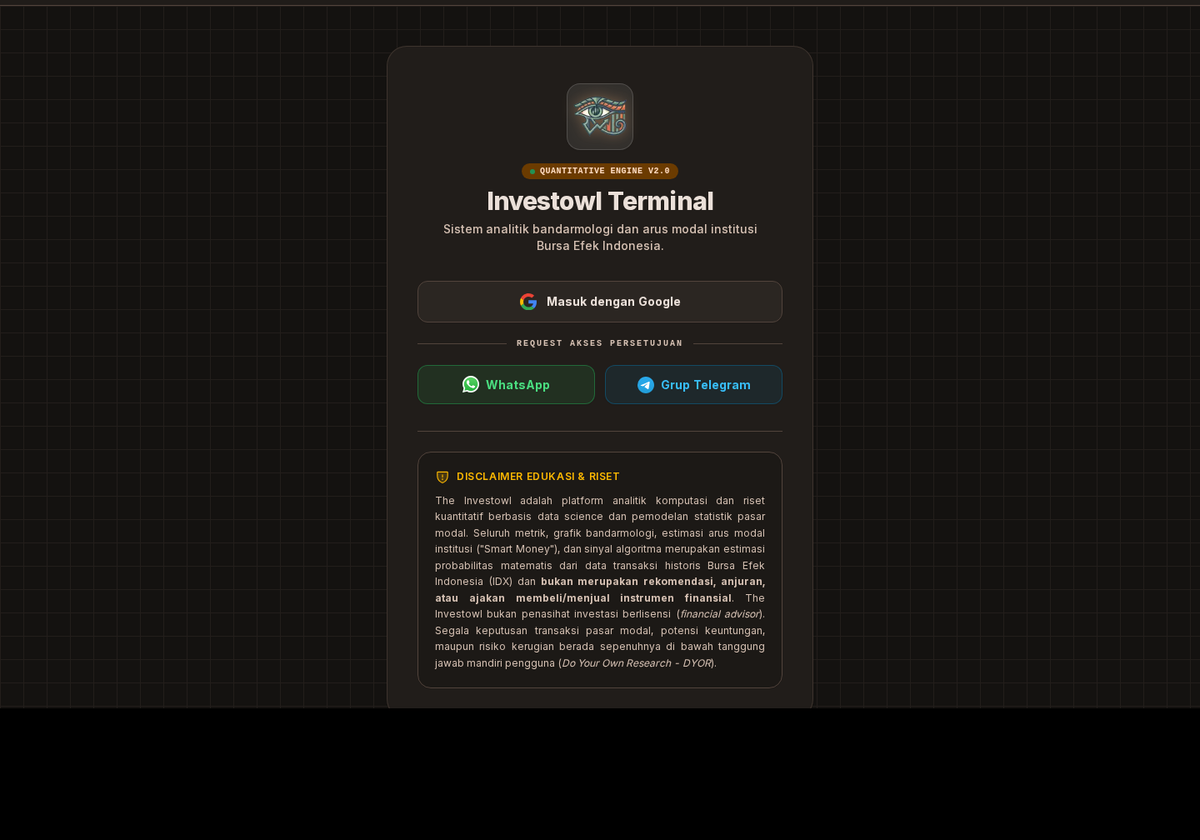
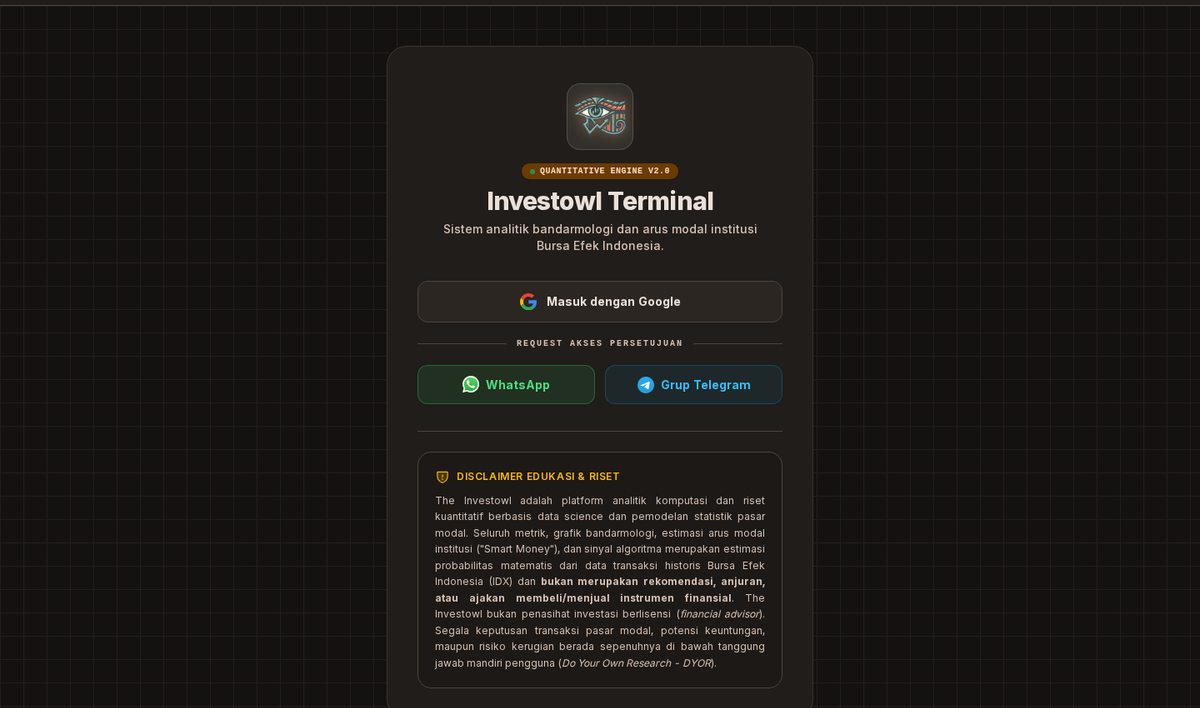
feat: add Gapura Media Engine project and fix clipped & blank images

diff --git a/public/assets/style.css b/public/assets/style.css
@@ -725,7 +725,8 @@ button {
 .hero-img-container {
   position: relative;
   width: 100%;
-  height: 280px;
+  aspect-ratio: 2 / 1;
+  height: auto;
   border-radius: var(--radius-sm);
   border: 1px solid var(--border-color);
   margin-bottom: 1rem;
@@ -736,7 +737,8 @@ button {
 .hero-img-container img {
   width: 100%;
   height: 100%;
-  object-fit: cover;
+  object-fit: contain;
+  object-position: center;
   display: block;
 }
 
@@ -1147,14 +1149,15 @@ button {
   border: 1px solid var(--border-color);
   overflow: hidden;
   box-shadow: 0 20px 40px rgba(0, 0, 0, 0.5);
-  background-color: var(--bg-surface);
+  background-color: var(--bg-obsidian);
 }
 
 .visual-frame img {
   width: 100%;
   height: auto;
   display: block;
-  object-fit: cover;
+  object-fit: contain;
+  background-color: var(--bg-obsidian);
 }
 
 /* ── 10. SECTION 5: STRUCTURE & KSEI RADAR (`#ownership`) ── */
@@ -1328,13 +1331,15 @@ button {
   border: 1px solid var(--border-color);
   overflow: hidden;
   box-sizing: border-box;
+  background-color: var(--bg-obsidian);
 }
 
 .network-graph-card img {
   width: 100%;
   max-width: 100%;
-  height: 180px;
-  object-fit: cover;
+  height: auto;
+  aspect-ratio: 1120 / 360;
+  object-fit: contain;
   display: block;
 }
 
@@ -1799,7 +1804,8 @@ button {
   }
 
   .hero-img-container {
-    height: 220px;
+    height: auto;
+    aspect-ratio: 2 / 1;
   }
 
   .telemetry-ticker-grid {
